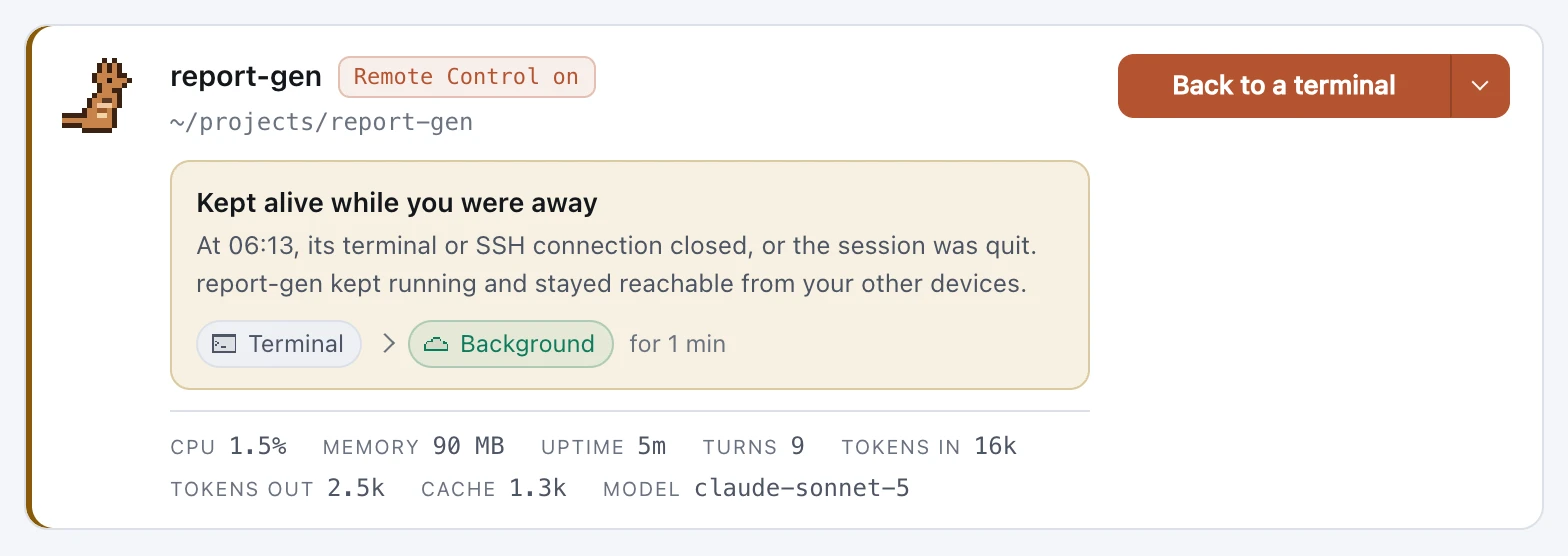
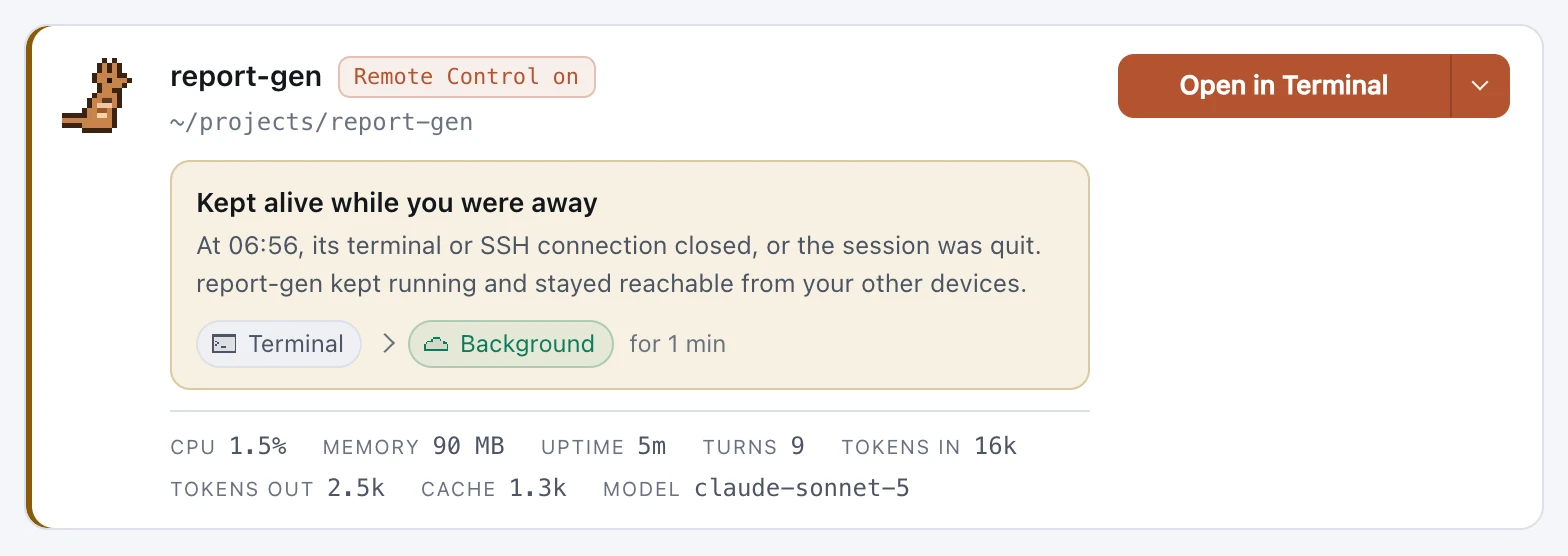
Make attaching the way back on an In background card from a terminal (#83)

Changed region(s): [[0.1562, 0.4281, 0.6562, 0.4586], [0.75, 0.1223, 0.9062, 0.1835]]

diff --git a/internal/web/ui/app.js b/internal/web/ui/app.js
@@ -177,7 +177,10 @@
   var HOST_APP = {
     terminal: "the terminal", desktop: "the desktop app", vscode: "VS Code"
   };
-  /* What closed, on an In background card, and the way back to it. */
+  /* What closed, on an In background card, and the ways that end its
+     background copy: back to Desktop or VS Code, or, for a session from a
+     terminal, ending the copy to resume the session in a terminal of its
+     own, with the words of the dialog that asks first. */
   var ORIGIN_PHRASE = { desktop: "The desktop app", vscode: "VS Code", terminal: "The terminal" };
   var BACK = {
     desktop: {
@@ -189,7 +192,7 @@
       done: function (name) { return name + " is back with VS Code. Open it from past conversations."; }
     },
     terminal: {
-      label: "Back to a terminal", go: "End background copy",
+      label: "End background copy", go: "End background copy",
       done: function () { return "Background copy ended. Paste the command in any terminal to carry on."; }
     }
   };
@@ -226,8 +229,8 @@
     return alsoCalled ? "Also called " + alsoCalled : id;
   }
 
-  /* backOf is the way back an In background card offers: to the app the
-     session came from, or to a terminal for anything else. */
+  /* backOf is the kind of app an In background card treats its session as
+     coming from: Desktop, VS Code, or a terminal for anything else. */
   function backOf(host) { return BACK[host] ? host : "terminal"; }
 
   /* chip shows an app on an In background card's trail as its pixel icon
@@ -399,11 +402,14 @@
   }
 
   function markBusy(node, id) {
+    /* A choice in the ways menu closes the menu, so the card's main button
+       shows that it is under way. */
+    var fromMenu = $$(".ways [data-act]", node).some(function (item) { return !!state.pending[busyKey(id, item.dataset.act)]; });
     $$("button[data-act]", node).forEach(function (button) {
       /* The arrow of the ways menu starts nothing, and stays able to take
          focus back from a choice made in its menu. */
       if (button.dataset.act === "ways") { return; }
-      var mine = !!state.pending[busyKey(id, button.dataset.act)];
+      var mine = !!state.pending[busyKey(id, button.dataset.act)] || (fromMenu && button.dataset.el === "main");
       button.classList.toggle("busy", mine);
       button.disabled = mine || anyPending(id);
     });
@@ -761,6 +767,9 @@
     show(f(node, "rchint"), !!hint);
     setText(f(node, "rchint"), hint);
 
+    /* An In background card shows the Attach row only when copying that
+       command is its main way, so the command can be read before it is
+       copied; fillWaysOn decides. */
     show(el(node, "attachbox"), !!w.attachCmd && !rescued);
     setText(f(node, "attach"), w.attachCmd || "");
     show(el(node, "sshbox"), !!w.sshAttachCmd);
@@ -802,32 +811,63 @@
     setText(f(node, "since"), since);
   }
 
-  /* fillWaysOn fills the way on of an In background card: back to the app
-     it came from, as one split button whose menu holds the ways that leave
-     the session running as it is, each shown only where it can work. */
+  /* waysOn is what an In background card offers, from the kind of app the
+     session came from and the ways that can work here: the action of its
+     main button, and which items its menu shows. A session from Desktop or
+     VS Code leads back to that app. One from a terminal, or any other app,
+     leads with attaching to the copy where it runs, which loses nothing:
+     in the terminal CC Babysitter can open, or else as a command to copy.
+     Ending the copy is then in the menu, and is the main way when neither
+     attach can work. */
+  function waysOn(kind, can) {
+    var main = "back";
+    if (kind === "terminal" && can.terminal) {
+      main = "open-terminal";
+    } else if (kind === "terminal" && can.copy) {
+      main = "copy-attach";
+    }
+    return {
+      main: main,
+      remote: !!can.remote,
+      terminal: !!can.terminal && main !== "open-terminal",
+      copy: !!can.copy && main !== "copy-attach",
+      endcopy: kind === "terminal" && main !== "back"
+    };
+  }
+
+  /* fillWaysOn fills the way on of an In background card: one split button
+     for its main way and a menu with the others, each shown only where it
+     can work. */
   function fillWaysOn(node, w, rescued) {
     var view = state.view || {};
     var env = view.env || {};
+    var kind = backOf(w.originHost);
     el(node, "acts").classList.toggle("stack", rescued);
     show(el(node, "way"), rescued && !!w.canStop);
-    setText(node.querySelector('[data-act="back"]'), BACK[backOf(w.originHost)].label);
 
     var remote = el(node, "remote");
     var url = rescued && REMOTE_URL.test(w.remoteUrl || "") ? w.remoteUrl : "";
-    show(remote, !!url);
     if (url && remote.getAttribute("href") !== url) { remote.setAttribute("href", url); }
     if (!url && remote.hasAttribute("href")) { remote.removeAttribute("href"); }
 
     /* The engine names what really opens here, and names nothing where
        nothing can be opened. */
     var terminal = !!w.attachCmd && rescued && !env.headless && !!view.terminalLabel;
-    show(el(node, "terminal"), terminal);
-    setText(f(node, "terminal"), view.terminalLabel || "");
     var copy = rescued && !!w.attachCmd;
-    show(el(node, "copyattach"), copy);
+    var ways = waysOn(kind, { remote: !!url, terminal: terminal, copy: copy });
+    var main = el(node, "main");
+    main.dataset.act = ways.main;
+    setText(main, ways.main === "open-terminal" ? view.terminalLabel : ways.main === "copy-attach" ? "Copy attach command" : BACK[kind].label);
+    setTitle(main, ways.main === "open-terminal" ? "Keeps it running in the background" : ways.main === "copy-attach" ? w.attachCmd : "");
+    show(remote, ways.remote);
+    show(el(node, "terminal"), ways.terminal);
+    setText(f(node, "terminal"), view.terminalLabel || "");
+    show(el(node, "copyattach"), ways.copy);
     setText(f(node, "attachcmd"), w.attachCmd || "");
+    show(el(node, "endcopy"), ways.endcopy);
+    if (rescued) { show(el(node, "attachbox"), ways.main === "copy-attach"); }
 
-    var more = !!url || terminal || copy;
+    var more = ways.remote || ways.terminal || ways.copy || ways.endcopy;
     var arrow = node.querySelector('[data-act="ways"]');
     var menu = el(node, "ways");
     menu.id = "ways-" + w.sessionId;
@@ -1636,6 +1676,10 @@
       if (act === "stop") { openStop(id); }
       if (act === "back") { openBack(id); }
       if (act === "open-terminal") {
+        /* The button is put to sleep while the terminal opens, so focus
+           waits on the arrow beside it, as after a choice in the menu. */
+        var arrow = button.dataset.el === "main" ? button.parentNode.querySelector('[data-act="ways"]') : null;
+        if (arrow && !arrow.hidden) { arrow.focus(); }
         run(id, act, function () { return send("POST", "/api/sessions/" + id + "/open-terminal", {}); });
       }
       if (act === "copy-attach") { copyText(w.attachCmd || ""); }

diff --git a/site/docs/first-session/index.html b/site/docs/first-session/index.html
@@ -128,9 +128,9 @@
     <p>On the computer, <strong>Open on claude.ai</strong> in the card's menu opens the same session in your browser.</p>
 
     <h2 id="back">Carry on at the computer</h2>
-    <p>When you're back at the computer, the card offers two ways to carry on in a terminal.</p>
-    <p><strong>Open in Terminal</strong>, in the menu beside <strong>Back to a terminal</strong>, opens a terminal window on the session where it runs. On Windows and Linux it says Open in Windows Terminal or Open in a terminal. The session stays in the background, still babysat and with Remote Control on, and closing that window doesn't stop it.</p>
-    <p><strong>Back to a terminal</strong> ends the background copy, and with it the babysitting. Confirm with <strong>End background copy</strong>, and you get a command that resumes the session in any terminal. The session moves to <strong>Not running</strong> on the page. Once you resume it, it shows under Running again, with Remote Control off until you type <code>/rc</code>. Press <strong>Babysit</strong> if you want it kept alive again.</p>
+    <p>When you're back at the computer, press <strong>Open in Terminal</strong> on the card. It opens a terminal window on the session where it runs. On Windows and Linux the button says Open in Windows Terminal or Open in a terminal. The session stays in the background, still babysat and with Remote Control on, and closing that window doesn't stop it.</p>
+    <p>Where CC Babysitter can't open a terminal, the button is <strong>Copy attach command</strong> instead, and the card shows the command. Paste it in any terminal to reach the session the same way.</p>
+    <p>To make it an ordinary terminal session again, choose <strong>End background copy</strong> from the card's menu, under the arrow beside the button, and confirm. You get a command that resumes the session in any terminal. Ending the copy also ends the babysitting, and the session moves to <strong>Not running</strong> on the page. Once you resume it, it shows under Running again, with Remote Control off until you type <code>/rc</code>. Press <strong>Babysit</strong> if you want it kept alive again.</p>
     <p>A babysat session that still runs in its own terminal has an <strong>Unbabysit</strong> button instead. It stops the babysitting and leaves the session running where it is.</p>
 
     <h2 id="next">What's next</h2>

diff --git a/internal/web/ui/index.html b/internal/web/ui/index.html
@@ -293,13 +293,14 @@
     <div class="acts" data-el="acts">
       <div class="wayon" data-el="way" hidden>
         <div class="split">
-          <button class="b primary" data-act="back"></button>
+          <button class="b primary" data-el="main" data-act="back"></button>
           <button class="b primary icon" data-act="ways" aria-haspopup="menu" aria-expanded="false" aria-label="More ways to use this session"><span class="caret"></span></button>
         </div>
         <div class="ways" role="menu" aria-label="More ways to use this session" data-el="ways" hidden>
           <a class="way" role="menuitem" tabindex="-1" data-el="remote" target="_blank" rel="noopener noreferrer" hidden>Open on claude.ai<span class="ext"></span><small>Keeps it running in the background</small></a>
           <button class="way" role="menuitem" tabindex="-1" data-act="open-terminal" data-el="terminal" hidden><span data-f="terminal">Open in Terminal</span><small>Keeps it running in the background</small></button>
           <button class="way" role="menuitem" tabindex="-1" data-act="copy-attach" data-el="copyattach" hidden>Copy attach command<small class="mono" data-f="attachcmd"></small></button>
+          <button class="way" role="menuitem" tabindex="-1" data-act="back" data-el="endcopy" hidden>End background copy<small>Gives you a command to resume it in any terminal</small></button>
         </div>
       </div>
       <button class="b" data-act="unbabysit" hidden>Unbabysit</button>

diff --git a/internal/web/ui/app.css b/internal/web/ui/app.css
@@ -298,9 +298,10 @@ a.b { display: inline-block; text-decoration: none; }
 .split .b.icon { border-top-left-radius: 0; border-bottom-left-radius: 0; border-left: none; padding-left: 11px; padding-right: 11px; }
 .split .b.primary.icon { border-left: 1px solid rgba(0, 0, 0, .18); }
 .split.alone .b:first-child { border-radius: 8px; }
-/* The way on: back to the app the session came from, and a menu with the
-   ways that leave it running as it is, under the button and as wide as the
-   column at least. Each item is a tall target, easy to tap. */
+/* The way on: the card's main way, such as back to the app the session
+   came from or attaching to it, and a menu with the others, under the
+   button and as wide as the column at least. Each item is a tall target,
+   easy to tap. */
 .wayon { position: relative; }
 .caret { display: inline-block; width: 6px; height: 6px; border-right: 1.5px solid currentColor; border-bottom: 1.5px solid currentColor; transform: rotate(45deg); vertical-align: 3px; }
 .ways {

diff --git a/internal/web/ui_test.go b/internal/web/ui_test.go
@@ -710,9 +710,10 @@ func TestTokenCountsAreWrittenShort(t *testing.T) {
 
 // An In background card says what happened while the person was away, and
 // that Claude Desktop shows its session as crashed meanwhile. Its way on is
-// one split button: back to the app it came from, and a menu with the ways
-// that leave it running as it is. Its old state lines and Attach row are
-// not shown on it.
+// one split button: its main way, back to Desktop or VS Code or attaching
+// for a session from a terminal, and a menu with the others. Its old state
+// lines are not shown on it, nor its Attach row unless copying the attach
+// command is its main way.
 func TestTheBackgroundCard(t *testing.T) {
 	index := readUI(t, "ui/index.html")
 	for _, want := range []string{
@@ -722,12 +723,13 @@ func TestTheBackgroundCard(t *testing.T) {
 		`<div class="journey">`,
 		`<span class="arrow"></span>`,
 		`<div class="wayon" data-el="way" hidden>`,
-		`<button class="b primary" data-act="back"></button>`,
+		`<button class="b primary" data-el="main" data-act="back"></button>`,
 		`<button class="b primary icon" data-act="ways" aria-haspopup="menu" aria-expanded="false" aria-label="More ways to use this session"><span class="caret"></span></button>`,
 		`<div class="ways" role="menu" aria-label="More ways to use this session" data-el="ways" hidden>`,
 		`<a class="way" role="menuitem" tabindex="-1" data-el="remote" target="_blank" rel="noopener noreferrer" hidden>Open on claude.ai<span class="ext"></span><small>Keeps it running in the background</small></a>`,
 		`<button class="way" role="menuitem" tabindex="-1" data-act="open-terminal" data-el="terminal" hidden><span data-f="terminal">Open in Terminal</span><small>Keeps it running in the background</small></button>`,
 		`<button class="way" role="menuitem" tabindex="-1" data-act="copy-attach" data-el="copyattach" hidden>Copy attach command<small class="mono" data-f="attachcmd"></small></button>`,
+		`<button class="way" role="menuitem" tabindex="-1" data-act="back" data-el="endcopy" hidden>End background copy<small>Gives you a command to resume it in any terminal</small></button>`,
 	} {
 		if !strings.Contains(index, want) {
 			t.Errorf("index.html does not contain %s", want)
@@ -1155,7 +1157,7 @@ func TestTheBackDialog(t *testing.T) {
 	}
 	app := readUI(t, "ui/app.js")
 	for _, want := range []string{
-		`"Back to Desktop"`, `"Back to VS Code"`, `"Back to a terminal"`, `"End background copy"`,
+		`"Back to Desktop"`, `"Back to VS Code"`, `label: "End background copy", go: "End background copy"`,
 		`" is back with Desktop. Open it from the sidebar, and press Try again if it shows as crashed."`,
 		`" is back with VS Code. Open it from past conversations."`,
 		`"Background copy ended. Paste the command in any terminal to carry on."`,
@@ -1164,6 +1166,67 @@ func TestTheBackDialog(t *testing.T) {
 	} {
 		if !strings.Contains(app, want) {
 			t.Errorf("app.js does not contain %s", want)
+		}
+	}
+	if strings.Contains(app, `"Back to a terminal"`) {
+		t.Error(`app.js still offers "Back to a terminal"`)
+	}
+}
+
+// TestTheWaysOn checks what an In background card leads with and what its
+// menu holds. A session from Desktop or VS Code goes back to that app. One
+// from a terminal, or any other app, leads with attaching to the copy where
+// it runs, in a terminal CC Babysitter opens or else as a command to copy,
+// and ends the copy from the menu; with neither, ending it is the main way.
+func TestTheWaysOn(t *testing.T) {
+	app := readUI(t, "ui/app.js")
+	for _, want := range []string{
+		`var ways = waysOn(kind, { remote: !!url, terminal: terminal, copy: copy });`,
+		`main.dataset.act = ways.main;`,
+		`show(el(node, "endcopy"), ways.endcopy);`,
+		`setText(main, ways.main === "open-terminal" ? view.terminalLabel : ways.main === "copy-attach" ? "Copy attach command" : BACK[kind].label);`,
+		`setTitle(main, ways.main === "open-terminal" ? "Keeps it running in the background" : ways.main === "copy-attach" ? w.attachCmd : "");`,
+		`if (rescued) { show(el(node, "attachbox"), ways.main === "copy-attach"); }`,
+		`var arrow = button.dataset.el === "main" ? button.parentNode.querySelector('[data-act="ways"]') : null;`,
+		`var fromMenu = $$(".ways [data-act]", node).some(function (item) { return !!state.pending[busyKey(id, item.dataset.act)]; });`,
+		`(fromMenu && button.dataset.el === "main")`,
+	} {
+		if !strings.Contains(app, want) {
+			t.Errorf("app.js does not contain %s", want)
+		}
+	}
+	node, err := exec.LookPath("node")
+	if err != nil {
+		t.Skip("node is not installed")
+	}
+	fn := "function waysOn(kind, can) {" + between(t, app, "function waysOn(kind, can) {", "\n  }") + "\n}"
+	cases := []struct{ kind, can, want string }{
+		{"desktop", `{ remote: true, terminal: true, copy: true }`, "back remote terminal copy"},
+		{"vscode", `{ remote: false, terminal: false, copy: true }`, "back copy"},
+		{"terminal", `{ remote: true, terminal: true, copy: true }`, "open-terminal remote copy endcopy"},
+		{"terminal", `{ remote: true, terminal: false, copy: true }`, "copy-attach remote endcopy"},
+		{"terminal", `{ remote: false, terminal: false, copy: false }`, "back"},
+		{"terminal", `{ remote: true, terminal: false, copy: false }`, "back remote"},
+		{"terminal", `{ remote: false, terminal: true, copy: false }`, "open-terminal endcopy"},
+		{"desktop", `{ remote: false, terminal: false, copy: false }`, "back"},
+	}
+	var script strings.Builder
+	script.WriteString(fn + "\n")
+	script.WriteString(`function say(w) { return [w.main].concat(["remote", "terminal", "copy", "endcopy"].filter(function (k) { return w[k]; })).join(" "); }` + "\n")
+	for _, c := range cases {
+		fmt.Fprintf(&script, "console.log(say(waysOn(%q, %s)));\n", c.kind, c.can)
+	}
+	out, err := exec.Command(node, "-e", script.String()).CombinedOutput()
+	if err != nil {
+		t.Fatalf("node: %v\n%s", err, out)
+	}
+	got := strings.Split(strings.TrimSpace(string(out)), "\n")
+	if len(got) != len(cases) {
+		t.Fatalf("want %d lines from node, got %q", len(cases), out)
+	}
+	for i, c := range cases {
+		if got[i] != c.want {
+			t.Errorf("waysOn(%q, %s) = %q, want %q", c.kind, c.can, got[i], c.want)
 		}
 	}
 }

diff --git a/cmd/ccbabysitter/help.go b/cmd/ccbabysitter/help.go
@@ -229,8 +229,9 @@ Only a session with a background copy can be stopped. canStop in show --json say
 whether S has one. Otherwise stop is refused, with exit code 1.
 While the copy runs, Claude Desktop shows "Claude Code crashed" for a session
 that came from it, because only one copy of a session runs at a time. After stop,
-Try again in Desktop picks the session up where it left off. This is the page's
-Back to Desktop.`,
+Try again in Desktop picks the session up where it left off. On the page, stop is
+Back to Desktop or Back to VS Code for a session from those apps, and End
+background copy for one from a terminal, which shows the command to resume it.`,
 		`  --yes              confirm. Without it nothing is stopped
 `,
 		`Text: the answer on stdout and exit code 0, or the reason on stderr and exit code 1.

diff --git a/README.md b/README.md
@@ -131,7 +131,7 @@ Behaviour and settings may change before 1.0. Please report problems by email to
 
 ## How it works
 
-A babysat session stays in its own app, and CC Babysitter never moves a session from one app to another. Once a session is carried in the background you have two choices: keep using it through Remote Control, or stop the background copy and open the session again wherever you like. While the copy runs, Claude Desktop shows "Claude Code crashed" for a session that came from it, because only one copy of a session runs at a time. Back to Desktop on the page, or `ccbabysitter stop`, ends the copy, and Try again in Desktop then picks the session up where it left off.
+A babysat session stays in its own app, and CC Babysitter never moves a session from one app to another. Once a session is carried in the background you can keep using it through Remote Control, attach to it from a terminal with `claude attach`, as Open in Terminal on the page does, or stop the background copy and open the session again wherever you like. While the copy runs, Claude Desktop shows "Claude Code crashed" for a session that came from it, because only one copy of a session runs at a time. Back to Desktop on the page, or `ccbabysitter stop`, ends the copy, and Try again in Desktop then picks the session up where it left off.
 
 On a server with no display the same page is the session manager. A plain `ccbabysitter` there sets it up as a service that survives a reboot, prints the command to connect from your laptop, and gives you the terminal back; `ccbabysitter install` does the same. Start a session yourself with `claude --bg --remote-control` in a project folder and it is babysat as soon as it starts, unless you switch that off in Settings. Attach to a babysat session from any SSH shell, unbabysit or stop it when you are done, and reach the page with the command CC Babysitter gave you.
 

diff --git a/plugin/skills/babysit/references/how-it-works.md b/plugin/skills/babysit/references/how-it-works.md
@@ -14,7 +14,7 @@ If a babysat session's app dies, the session comes back in the background with R
 
 ## How it works
 
-A babysat session stays in its own app, and CC Babysitter never moves a session from one app to another. Once a session is carried in the background you have two choices: keep using it through Remote Control, or stop the background copy and open the session again wherever you like. While the copy runs, Claude Desktop shows "Claude Code crashed" for a session that came from it, because only one copy of a session runs at a time. Back to Desktop on the page, or `ccbabysitter stop`, ends the copy, and Try again in Desktop then picks the session up where it left off.
+A babysat session stays in its own app, and CC Babysitter never moves a session from one app to another. Once a session is carried in the background you can keep using it through Remote Control, attach to it from a terminal with `claude attach`, as Open in Terminal on the page does, or stop the background copy and open the session again wherever you like. While the copy runs, Claude Desktop shows "Claude Code crashed" for a session that came from it, because only one copy of a session runs at a time. Back to Desktop on the page, or `ccbabysitter stop`, ends the copy, and Try again in Desktop then picks the session up where it left off.
 
 On a server with no display the same page is the session manager. A plain `ccbabysitter` there sets it up as a service that survives a reboot, prints the command to connect from your laptop, and gives you the terminal back; `ccbabysitter install` does the same. Start a session yourself with `claude --bg --remote-control` in a project folder and it is babysat as soon as it starts, unless you switch that off in Settings. Attach to a babysat session from any SSH shell, unbabysit or stop it when you are done, and reach the page with the command CC Babysitter gave you.
 

diff --git a/docs/CHANGELOG.md b/docs/CHANGELOG.md
@@ -2,6 +2,10 @@
 
 Versions follow MAJOR.MINOR.PATCH, with a pre-release such as 0.5.0-rc.1 published as MAJOR.MINOR.PATCH-<pre> under a heading of the same name. Patch for fixes with no visible change, minor for new or visibly changed behaviour, major when the state file or a flow changes so that old state is no longer valid. Bump when a build is handed out or put into use, not on every edit. Changes merged since the last release are listed under Unreleased until the next one.
 
+## Unreleased
+
+- Changed: on the In background card of a session that came from a terminal, or from no app it can go back to, the main button attaches to the background copy, which keeps running with Remote Control on: Open in Terminal where CC Babysitter can open a terminal, and Copy attach command where it cannot, such as on a server. End background copy, which ends the copy and gives the command to resume the session in any terminal, moves to the card's menu (#79).
+
 ## 0.7.0 (2026-10-08)
 
 - Changed: Activity says why a babysat session went down, when CC Babysitter can tell, instead of "host process exited": Claude Desktop closed, closed and updated, or restarted for an update, with both versions; the session ended while Claude Desktop kept running; the computer restarted; VS Code, the session's terminal or its SSH connection closed; or the background copy ended. The Claude Desktop reasons need macOS or Windows. When several sessions went down together, one line says so as the first is brought back. Where nothing tells, the reason is "the process running it exited". The In background card gives the same reason, for example "At 22:11, Claude Desktop restarted for an update." (#68).

diff --git a/plugin/skills/babysit/references/commands.md b/plugin/skills/babysit/references/commands.md
@@ -338,8 +338,9 @@ Only a session with a background copy can be stopped. canStop in show --json say
 whether S has one. Otherwise stop is refused, with exit code 1.
 While the copy runs, Claude Desktop shows "Claude Code crashed" for a session
 that came from it, because only one copy of a session runs at a time. After stop,
-Try again in Desktop picks the session up where it left off. This is the page's
-Back to Desktop.
+Try again in Desktop picks the session up where it left off. On the page, stop is
+Back to Desktop or Back to VS Code for a session from those apps, and End
+background copy for one from a terminal, which shows the command to resume it.
 
 S is a session id, a short id, a name, or self. A full id always wins. A word
 that fits two sessions, as a short id or a name, is refused, with exit code 4. self is
